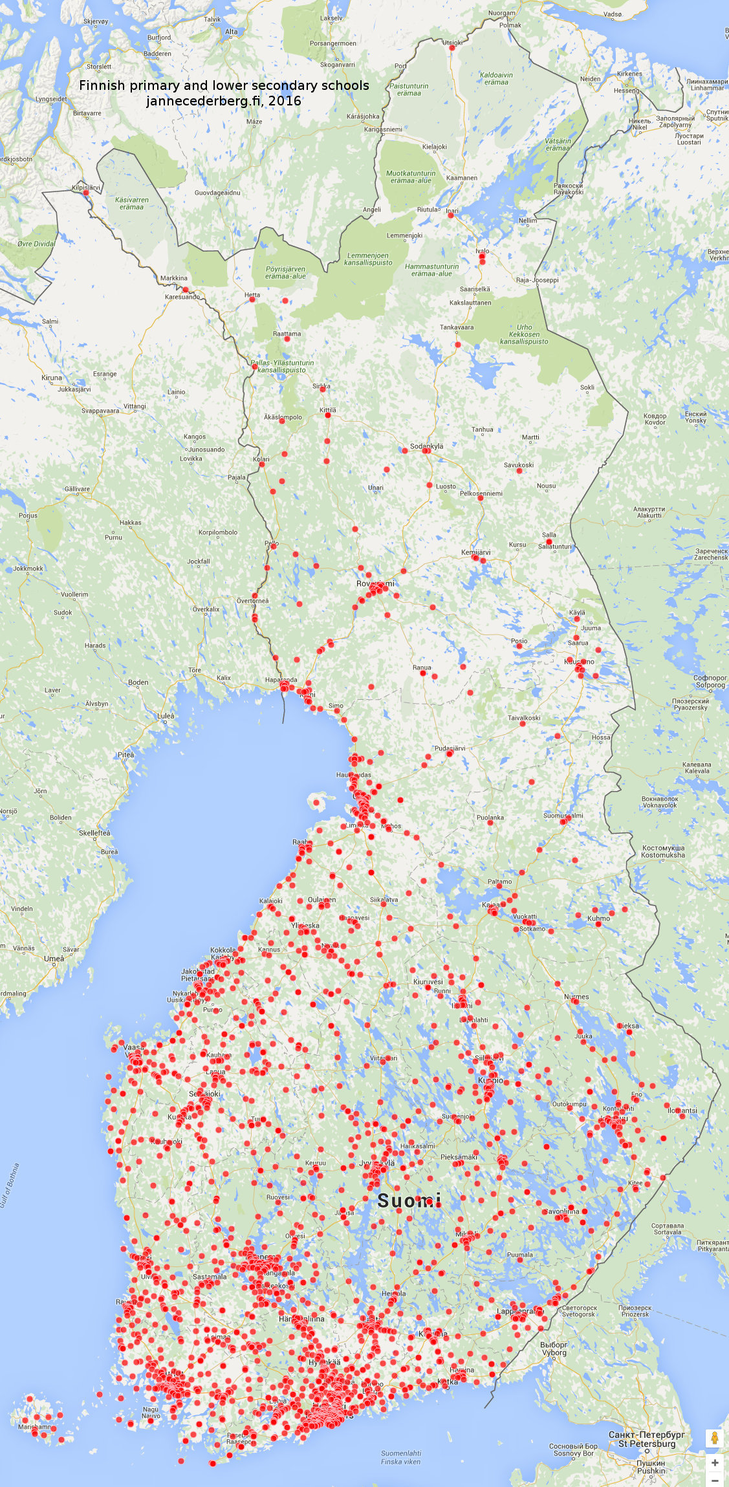
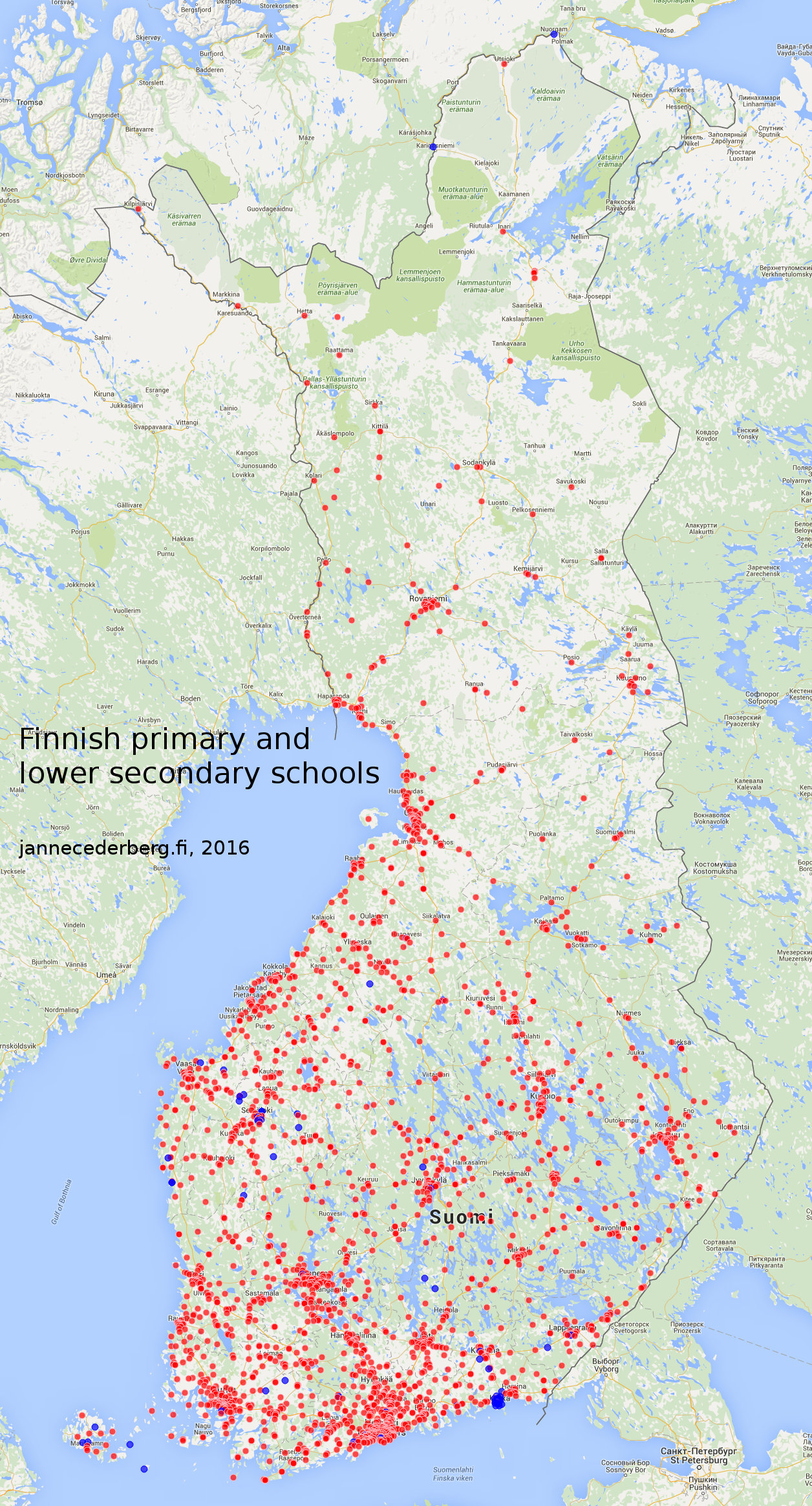
Fix 82 out of missing 116 schools. Larger fullres map.

diff --git a/_posts/2016-01-28-finnish-primary-and-lower-secondary-schools-on-map.md b/_posts/2016-01-28-finnish-primary-and-lower-secondary-schools-on-map.md
@@ -13,9 +13,9 @@ colorbox:   true
 
 I utilized Google Maps, [Python](https://xkcd.com/353/) and standard webdesign frontend technologies to plot Finnish primary and lower secondary schools (grades 1-9) on a map:
 
-(Edit 2.2.2016: thanks to reader feedback! I didn't notice the source data contained only postal addresses for 116 schools. As I marked the schools on the map based on street addresses only, there are currently 116 schools missing from the map. Intending to fix this within the next few weeks.)
+*Edit 16.2.2016:* The 82 blue dots represent schools that only had postal addresses available in the source data and were initially missing; it seems 34 schools are still missing from the data for a reason I didn't investigate.
 
-<a href="/img/finnish-primary-and-lower-secondary-schools.jpg" class="colorbox" title="Finnish primary and lower secondary schools on a map"><img src="/img/finnish-primary-and-lower-secondary-schools.jpg" alt="Finnish primary and lower secondary schools on a map"></a>
+<a href="/img/finnish-primary-and-lower-secondary-schools_large.jpg" title="Finnish primary and lower secondary schools on a map"><img src="/img/finnish-primary-and-lower-secondary-schools.jpg" alt="Finnish primary and lower secondary schools on a map"></a>
 
 What partially surprised me was how many schools there are in the archipelago region between Turku and the Åland Islans (bottom-left / south-western part of the map).
 
